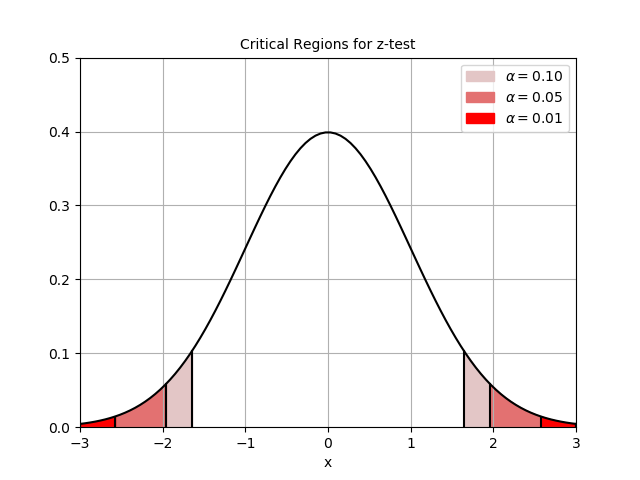
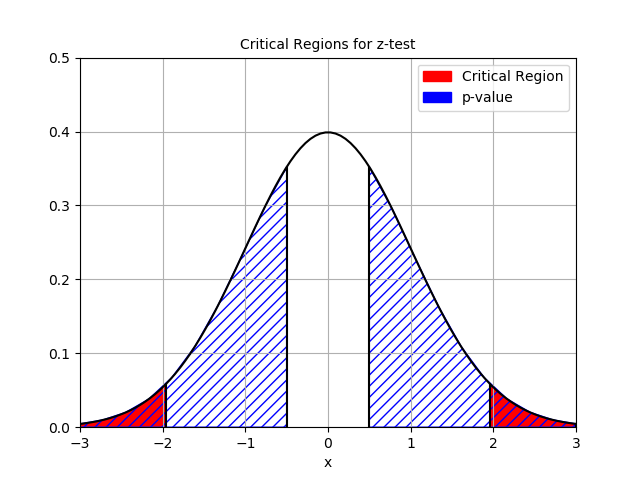
p-value plot

Changed region(s): [[0.125, 0.3438, 0.4688, 0.9062], [0.5625, 0.3438, 0.9062, 0.9062], [0.6562, 0.125, 0.875, 0.2812]]

diff --git a/statistical_hypothesis_testing/plots/plots_z_test.py b/statistical_hypothesis_testing/plots/plots_z_test.py
@@ -7,7 +7,7 @@ from colour import Color
 from ..tails import Tail
 
 
-def create_critical_region_plot(alphas=[0.05, ], x_min=-3, y_max=0.5, tails=Tail.TWO_TAILED):
+def create_critical_region_plot(alphas=[0.05, ], tails=Tail.TWO_TAILED, x_min=-3, y_max=0.5):
     alphas = sorted(alphas, reverse=True)
     x_max = x_min * (-1)
 
@@ -46,9 +46,50 @@ def create_critical_region_plot(alphas=[0.05, ], x_min=-3, y_max=0.5, tails=Tail
     plt.ylim(0,y_max)
 
     plt.title('Critical Regions for z-test',fontsize=10)
-
     plt.xlabel('x')
 
-    plt.savefig("normal_distribution_2.png")
+    plt.savefig("z_test_critical_region.png")
     plt.show()
 
+def create_p_value_plot(statistics,alpha=0.05, tails=Tail.TWO_TAILED, x_min=-3, y_max=0.5):
+    x_max = x_min * (-1)
+
+    x = np.linspace(x_min, x_max, 100)
+    y = scipy.stats.norm.pdf(x)
+    plt.plot(x,y, color='black')
+
+    def generate_area(x1, x2, color,hatch=None,edgecolor=None):
+        pt1 = x1
+        plt.plot([pt1 ,pt1 ],[0.0,scipy.stats.norm.pdf(pt1)], color='black')
+
+        pt2 = x2
+        plt.plot([pt2 ,pt2 ],[0.0,scipy.stats.norm.pdf(pt2)], color='black')
+
+        ptx = np.linspace(pt1, pt2, 10)
+        pty = scipy.stats.norm.pdf(ptx)
+
+        plt.fill_between(ptx, pty, facecolor=color, alpha='1.0', hatch=hatch, edgecolor=edgecolor)
+
+
+    legend_patches = []
+
+    generate_area(x_min, norm.ppf(alpha/2), 'red')
+    generate_area(norm.ppf(1 - alpha/2), x_max, 'red')
+    legend_patches.append(mpatches.Patch(color='red', label='Critical Region'.format(alpha)))
+
+    generate_area(x_min, -abs(statistics), 'none', hatch='///', edgecolor='blue')
+    generate_area(abs(statistics), x_max, 'none', hatch='///', edgecolor='blue')
+    legend_patches.append(mpatches.Patch(color='blue', label='p-value'.format(alpha)))
+
+    plt.legend(handles=legend_patches)
+
+    plt.grid()
+
+    plt.xlim(x_min,x_max)
+    plt.ylim(0,y_max)
+
+    plt.title('p-value of z-test',fontsize=10)
+    plt.xlabel('x')
+
+    plt.savefig("z_test_p_value.png")
+    plt.show()

diff --git a/main.py b/main.py
@@ -1,5 +1,5 @@
 from statistical_hypothesis_testing.plots import plots_z_test
 
 
-plots_z_test.create_critical_region_plot([0.05,0.01,0.1])
+plots_z_test.create_p_value_plot(0.5)
 
